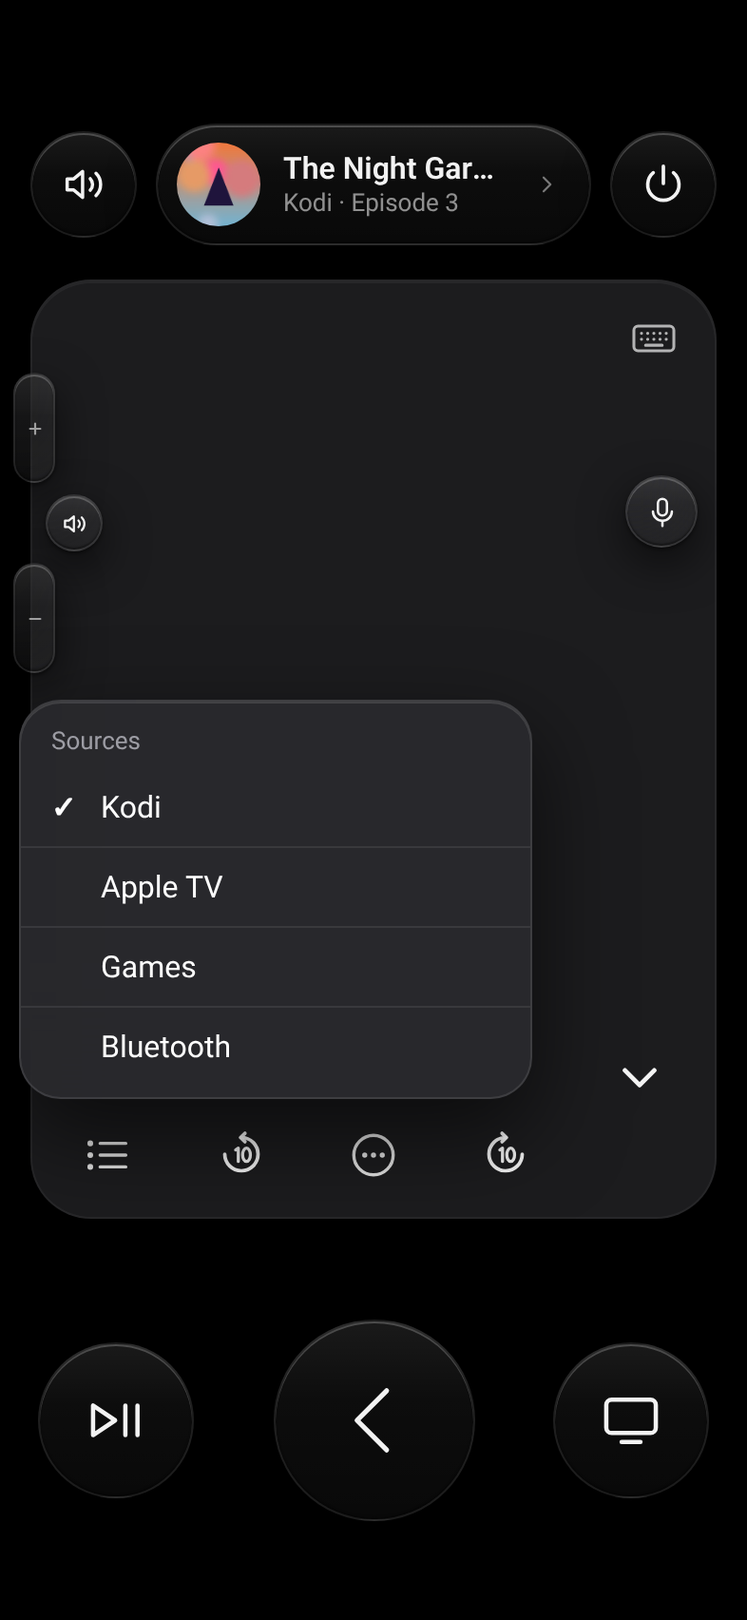
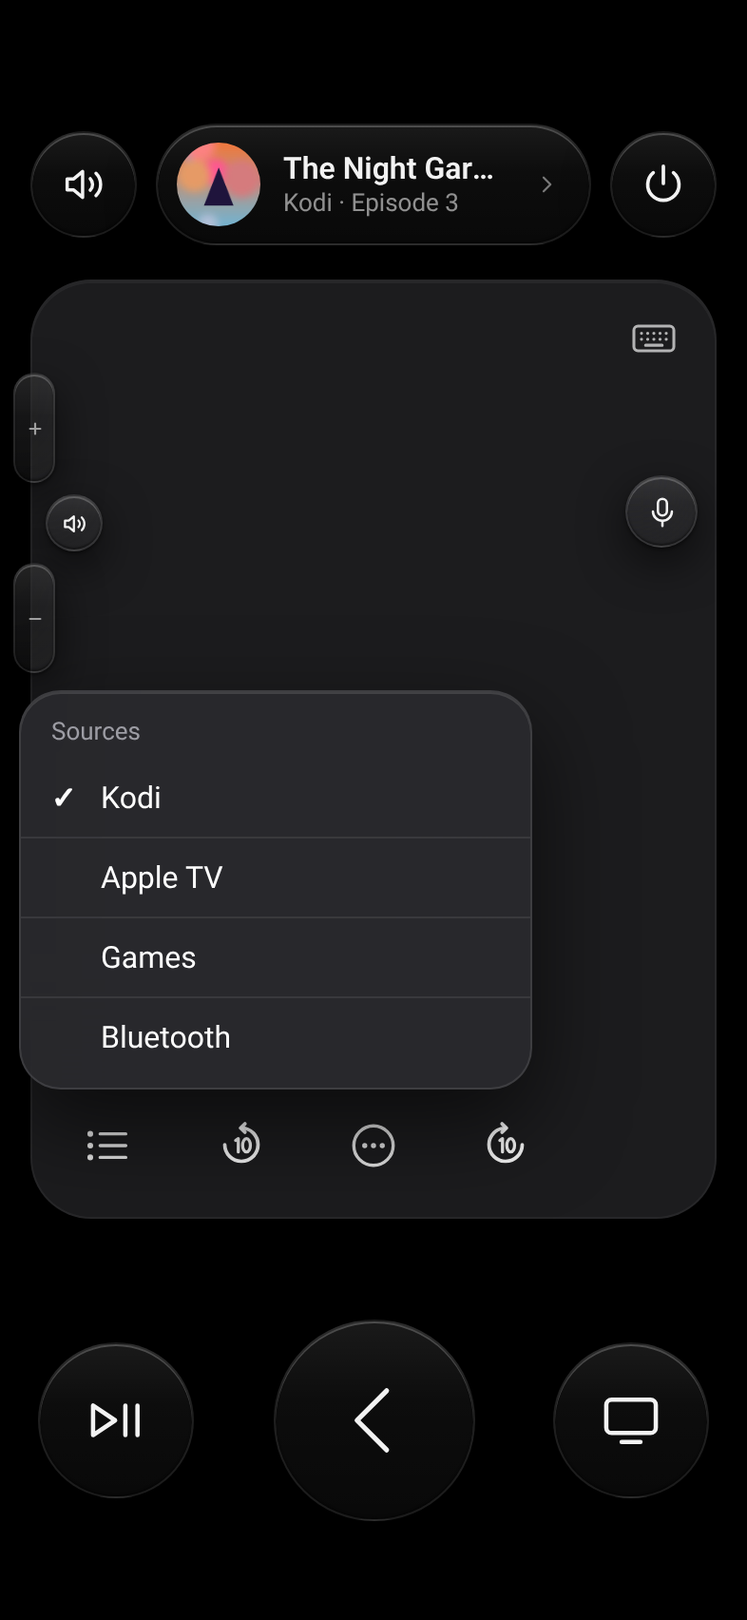
Grok Bot: 0.1.4 - bottom row always shown again; Apple-style CH control (collapsed CH with caps -> animated up/CH/down stack, folds back after channel_timeout); tests (11 Oct 2026)

Changed region(s): [[0.0611, 0.591, 0.7023, 0.7465], [0.0611, 0.4043, 0.6718, 0.5599], [0.8244, 0.6532, 0.8855, 0.6843]]

diff --git a/glass-remote-card.js b/glass-remote-card.js
@@ -6,15 +6,15 @@
  * https://github.com/evski/ha-glass-remote-card
  * MIT licence.
  *
- * 0.1.3 (Grok Bot, 11 Oct 2026): the pad's bottom row (sources | -10 | more | +10 | CH) now works like
- * Apple's iOS Remote: hidden by default and revealed inside the bottom of the touchpad by tapping the
- * CH control (a small chevron on players without channels); tap it again to hide. `bottom_row: always`
- * keeps the old always-visible row. Sharp CH chevrons and Apple proportions.
+ * 0.1.4 (Grok Bot, 11 Oct 2026): the pad's bottom row (sources | -10 | more | +10 | CH) is always shown,
+ * as on Apple's iOS Remote. Only the CH control changes: a compact "CH" with thin caps above and below
+ * sits in the row; tapping it animates the caps out into an up/down chevron stack (channel up/down).
+ * Tap CH again, or leave it ~5 s (`channel_timeout`), and it folds back. Replaces 0.1.3's hidden row.
  */
 (() => {
   "use strict";
 
-  const VERSION = "0.1.3";
+  const VERSION = "0.1.4";
   const TAG = "glass-remote-card";
   const PICK_KEY = "glass-remote-card:pick:";
 
@@ -61,6 +61,11 @@
     exit: svg('<path d="M14 4.5H6.5a2 2 0 0 0-2 2v11a2 2 0 0 0 2 2H14M10 12h10M16.5 8.5 20 12l-3.5 3.5"/>'),
     close: svg('<path d="M6 6l12 12M18 6 6 18"/>', 1.8),
   };
+
+  // CH control (0.1.4, Grok Bot 11 Oct 2026): each glyph holds Apple's collapsed thin cap and the open
+  // chevron; CSS cross-fades and moves them, so it works on iOS Safari (no CSS path morphing there).
+  const CH_UP = '<svg viewBox="4 4.5 16 9" fill="none" stroke="currentColor" stroke-linecap="round" stroke-linejoin="round" aria-hidden="true"><path class="cap" stroke-width="1.6" d="M6.2 10.6 10.8 8.4Q12 7.8 13.2 8.4L17.8 10.6"/><path class="chev" stroke-width="2" d="M6.5 12 12 6.5l5.5 5.5"/></svg>';
+  const CH_DOWN = '<svg viewBox="4 4.5 16 9" fill="none" stroke="currentColor" stroke-linecap="round" stroke-linejoin="round" aria-hidden="true"><path class="cap" stroke-width="1.6" d="M6.2 7.4 10.8 9.6Q12 10.2 13.2 9.6L17.8 7.4"/><path class="chev" stroke-width="2" d="M6.5 6.5 12 12l5.5-5.5"/></svg>';
 
   // Siri Remote glyph for the keyboard banner's app icon (filled, like the iOS notification).
   const REMOTE_GLYPH = '<svg viewBox="0 0 24 24" aria-hidden="true"><rect x="8.2" y="1.8" width="7.6" height="20.4" rx="2.6" fill="#fff"/>' +
@@ -227,9 +232,9 @@
       pad_height: "58dvh", card_height: "640px", ...config, players,
     };
     if (!["fullscreen", "card"].includes(out.layout)) throw new Error("glass-remote-card: layout must be fullscreen or card");
-    // bottom_row (0.1.3, Grok Bot 11 Oct 2026): toggle = hidden until CH is tapped (Apple), always = old behaviour
-    if (out.bottom_row === undefined) out.bottom_row = "toggle";
-    if (!["toggle", "always"].includes(out.bottom_row)) throw new Error("glass-remote-card: bottom_row must be toggle or always");
+    // channel_timeout (0.1.4, Grok Bot 11 Oct 2026): ms before an expanded CH stack folds back; 0 = never
+    if (out.channel_timeout === undefined) out.channel_timeout = 5000;
+    if (typeof out.channel_timeout !== "number" || out.channel_timeout < 0) throw new Error("glass-remote-card: channel_timeout must be milliseconds (0 = never)");
     return out;
   }
 
@@ -565,25 +570,35 @@
     .badge { width: 30px; height: 30px; margin-left: 17px; border-radius: 50%; display: grid; place-items: center; --s: 15px; -webkit-touch-callout: none; user-select: none; }
     .badge.inert { pointer-events: none; }
     .mic { position: absolute; right: 10px; top: calc(10% + 54px); width: 38px; height: 38px; border-radius: 50%; display: grid; place-items: center; --s: 19px; z-index: 2; }
-    /* bottom row inside the pad, like Apple's iOS Remote: sources | -10 | (...) | +10 | CH.
-       0.1.3 (Grok Bot, 11 Oct 2026): hidden until the CH control is tapped; the rest of the pad stays a
-       touchpad (the row only catches taps on its own buttons). Proportions from Apple's: five equal
-       columns, icons ~27px centred ~30px above the pad's bottom edge, CH stack ~32px pitch above that. */
-    .inner { position: absolute; left: 6px; right: 6px; bottom: 8px; display: grid; grid-template-columns: repeat(5, 1fr);
+    /* bottom row inside the pad, always shown, like Apple's iOS Remote: sources | -10 | (...) | +10 | CH.
+       The row only catches taps on its own buttons, so the rest of the pad stays a touchpad.
+       0.1.4 (Grok Bot, 11 Oct 2026): proportions from Apple's screenshots (five equal columns, icons ~27px
+       centred ~35px above the pad's bottom edge). CH: collapsed = "CH" in the row with thin caps hugging it;
+       open = the caps slide out and turn into chevrons, CH rises: up chevron, CH, down chevron (~33px pitch). */
+    .inner { position: absolute; left: 6px; right: 6px; bottom: 13px; display: grid; grid-template-columns: repeat(5, 1fr);
       justify-items: center; align-items: end; z-index: 2; pointer-events: none; }
     .inner > button { padding: 8px; --s: 28px; pointer-events: auto; }
     .inner .src, .inner .more { --s: 27px; opacity: .92; }
-    .inner > button, .ch .chb { transition: opacity .22s ease, transform .28s cubic-bezier(.2,.9,.3,1.1), visibility 0s; }
-    .inner:not(.open) > button, .inner:not(.open) .ch .chb { opacity: 0; transform: translateY(8px); visibility: hidden; pointer-events: none;
-      transition: opacity .15s ease, transform .2s ease, visibility 0s linear .2s; }
-    .inner .gone, .inner.open .gone { visibility: hidden; pointer-events: none; }
-    .ch { display: flex; flex-direction: column; align-items: center; line-height: 1; margin-bottom: 17px; pointer-events: none; }
-    .ch .chb { width: 44px; height: 36px; padding: 0; display: grid; place-items: center; pointer-events: auto; }
-    .ch .chb svg { width: 19px; height: 11px; display: block; }
-    .ch .chl { min-width: 44px; height: 28px; padding: 0 4px; display: grid; place-items: center; pointer-events: auto;
-      font-size: 15px; font-weight: 600; letter-spacing: .3px; --s: 19px; }
+    .inner .gone { visibility: hidden; pointer-events: none; }
+    .ch { position: relative; width: 44px; height: 44px; pointer-events: none; --ch-ease: cubic-bezier(.3,.9,.3,1.06); }
+    .ch > button { position: absolute; left: 50%; top: 50%; padding: 0; display: grid; place-items: center;
+      transition: transform .22s var(--ch-ease); }
+    .ch .chl { width: 44px; height: 36px; margin: -18px 0 0 -22px; z-index: 1; pointer-events: auto;
+      font-size: 15px; font-weight: 600; letter-spacing: .3px; line-height: 1; }
     .ch .chl:active { opacity: .6; }
-    .ch .chl .icon { width: 19px; height: 11px; }
+    .ch .chb { width: 44px; height: 30px; margin: -15px 0 0 -22px; pointer-events: none; }
+    .ch .chb svg { width: 22px; height: 12px; display: block; overflow: visible; }
+    .ch .chb path { transition: opacity .2s ease, transform .22s var(--ch-ease); transform-origin: 12px 9px; }
+    .ch .chb .chev { opacity: 0; transform: scale(.85, .5); }
+    .ch .chb.up { transform: translateY(-14px); }
+    .ch .chb.dn { transform: translateY(14px); }
+    .ch.open .chl { transform: translateY(-40px); }
+    .ch.open .chb { pointer-events: auto; }
+    .ch.open .chb.up { transform: translateY(-73px); }
+    .ch.open .chb.dn { transform: translateY(-7px); }
+    .ch.open .chb .cap { opacity: 0; transform: scale(.85, 1.6); }
+    .ch.open .chb .chev { opacity: 1; transform: none; }
+    .ch.open .chb:active { opacity: .6; }
 
     /* glass pop-up menu (sources, sound mode, more) */
     .menu-bg { position: fixed; inset: 0; z-index: 30; display: none; }
@@ -830,12 +845,12 @@
               <button class="tab glass" data-key="volume_down" data-repeat aria-label="Volume down">${icon("minus")}</button>
             </div>
             <button class="mic glass" data-act="keyboard" aria-label="Dictate">${icon("mic")}</button>
-            <div class="inner${c.bottom_row === "always" ? " open" : ""}">
+            <div class="inner">
               <button class="src" data-act="sources" aria-label="Sources">${icon("list")}</button>
               <button data-key="skip_back" aria-label="Back 10 seconds"><span class="icon ib"></span></button>
               <button class="more" data-act="more" aria-label="More">${icon("more")}</button>
               <button data-key="skip_fwd" aria-label="Forward 10 seconds"><span class="icon if"></span></button>
-              <div class="ch"><button class="chb" data-key="channel_up" aria-label="Channel up">${ICONS.chev_up}</button><button class="chl" data-act="row" aria-expanded="false" aria-label="Show channel and playback controls">CH</button><button class="chb" data-key="channel_down" aria-label="Channel down">${ICONS.chev_down}</button></div>
+              <div class="ch"><button class="chb up" data-key="channel_up" aria-label="Channel up" tabindex="-1">${CH_UP}</button><button class="chl" data-act="ch" aria-expanded="false" aria-label="Channels">CH</button><button class="chb dn" data-key="channel_down" aria-label="Channel down" tabindex="-1">${CH_DOWN}</button></div>
             </div>
           </div>
           <div class="bottom">
@@ -868,6 +883,8 @@
       });
       ta.addEventListener("keydown", (e) => { if (e.key === "Enter" && !e.shiftKey) { e.preventDefault(); this._act("kb-send"); } });
       this._wirePad(r.querySelector(".pad"));
+      // CH chevrons: each use restarts the fold-back timer (0.1.4, Grok Bot 11 Oct 2026)
+      r.querySelectorAll(".ch .chb").forEach((b) => b.addEventListener("pointerdown", () => { if (this._chOpen) this._setChOpen(true); }));
       // speaker badge: press and hold = sound mode menu (the +/- tabs keep hold-to-repeat)
       const badge = r.querySelector(".badge");
       let bt = null;
@@ -1015,7 +1032,7 @@
       const r = this.shadowRoot;
       if (act === "picker") { this._haptic(); this._renderPicker(); r.querySelector(".picker").classList.add("show"); }
       else if (act === "close") this._closeSheets();
-      else if (act === "row") { if (this._config.bottom_row !== "always") { this._haptic(); this._rowOpen = !this._rowOpen; this._renderRow(); } }
+      else if (act === "ch") { this._haptic(); this._setChOpen(!this._chOpen); }
       else if (act === "sources" || act === "more") { this._haptic(); this._openMenu(act, r.querySelector(act === "sources" ? ".src" : ".more")); }
       else if (act === "keyboard") {
         this._haptic();
@@ -1056,25 +1073,16 @@
       this._switching = true;
       this._call(steps).finally(() => { this._switching = false; });
     }
-    /** Open/closed state of the pad's bottom row and its CH toggle (0.1.3, Grok Bot 11 Oct 2026).
-     *  Players with channels: the "CH" label is the toggle and the chevrons appear around it.
-     *  Players without: a small chevron (up = show, down = hide) sits in the same spot. */
-    _renderRow() {
-      const r = this.shadowRoot, p = this.activePlayer; if (!p) return;
-      const always = this._config.bottom_row === "always";
-      const open = always || !!this._rowOpen;
-      const ch = hasChannels(p);
-      const inner = r.querySelector(".inner"), chl = r.querySelector(".chl");
-      inner.classList.toggle("open", open);
-      r.querySelectorAll(".ch .chb").forEach((b) => b.classList.toggle("gone", !ch));
-      const label = ch ? "CH" : (always ? "" : (open ? "down" : "up"));
-      if (chl.dataset.label !== label) {
-        chl.dataset.label = label;
-        chl.innerHTML = label === "CH" ? "CH" : label ? `<span class="icon">${ICONS[label === "up" ? "chev_up" : "chev_down"]}</span>` : "";
-      }
-      chl.classList.toggle("gone", !label);
-      chl.setAttribute("aria-expanded", String(open));
-      chl.setAttribute("aria-label", always ? "Channel" : open ? "Hide playback controls" : "Show playback controls");
+    /** CH control (0.1.4, Grok Bot 11 Oct 2026): collapsed "CH" in the row <-> chevron stack.
+     *  Collapsed, a tap only expands (no command). Folds back after channel_timeout ms without use. */
+    _setChOpen(open) {
+      this._chOpen = !!open;
+      const ch = this.shadowRoot.querySelector(".ch"), chl = this.shadowRoot.querySelector(".chl");
+      ch.classList.toggle("open", this._chOpen);
+      chl.setAttribute("aria-expanded", String(this._chOpen));
+      ch.querySelectorAll(".chb").forEach((b) => (b.tabIndex = this._chOpen ? 0 : -1));
+      clearTimeout(this._db_ch); this._timers.delete(this._db_ch); this._db_ch = null;
+      if (this._chOpen && this._config.channel_timeout > 0) this._debounce("ch", () => this._setChOpen(false), this._config.channel_timeout);
     }
     _closeSheets() { this.shadowRoot.querySelectorAll(".sheet-bg").forEach((s) => s.classList.remove("show")); }
     _friendly(p) { const st = this._states[p.entity]; return p.name || (st && st.attributes && st.attributes.friendly_name) || p.entity; }
@@ -1146,7 +1154,9 @@
       // bottom row: sources | -10 | ... | +10 | CH (each slot keeps its place when hidden)
       r.querySelector(".src").classList.toggle("gone", !sourceMenu(p, this._states));
       r.querySelector(".more").classList.toggle("gone", !moreItems(p, this._states).length);
-      this._renderRow();
+      const chOk = hasChannels(p);
+      r.querySelector(".ch").classList.toggle("gone", !chOk);
+      if (!chOk && this._chOpen) this._setChOpen(false);
       r.querySelector(".badge").classList.toggle("inert", !soundModeMenu(p, this._states));
       if (this._menu && (this._menuKind === "sources" || this._menuKind === "sound_mode")) {
         // keep the tick on the live value while open

diff --git a/test/test.js b/test/test.js
@@ -327,7 +327,7 @@ function ptr(w, el, type, x = 100, y = 100) {
   const dcfg = CONFIG(); dcfg.players[1].sources = { entity: "media_player.avr", include: [{ UHD: "Kodi" }, { PVR: "Apple TV" }] };
   m = mount(w, dcfg, AVRS);
   check("O8 bottom row order: sources | -10 | ... | +10 | CH", eq([...m.$(".inner").children].map((e) => e.className.split(" ")[0] || e.dataset.key), ["src", "skip_back", "more", "skip_fwd", "ch"]));
-  check("O9 Kodi: CH chevrons hidden (toggle stays), sources + more shown", [...m.card.shadowRoot.querySelectorAll(".ch .chb")].every((x) => x.classList.contains("gone")) && !m.$(".chl").classList.contains("gone") && !m.$(".src").classList.contains("gone") && !m.$(".more").classList.contains("gone"));
+  check("O9 Kodi: CH slot hidden, sources + more shown", m.$(".ch").classList.contains("gone") && !m.$(".src").classList.contains("gone") && !m.$(".more").classList.contains("gone"));
   check("O10 no separate info/subtitle buttons, mic still on the right edge", !m.$('.inner [data-key="info"]') && !!m.$(".mic"));
   m.$(".src").click(); await sleep(10);
   const mis = [...m.card.shadowRoot.querySelectorAll(".menu .mi")];
@@ -356,52 +356,48 @@ function ptr(w, el, type, x = 100, y = 100) {
   check("O19 + tab still repeats while held", m.hass.calls.filter((c) => c[1] === "volume_up").length >= 2);
   m.card.remove();
 
-  // ---- BR: bottom row toggle like Apple's iOS Remote (0.1.3, Grok Bot 11 Oct 2026) ------------
+  // ---- CH: Apple's CH control, row always shown (0.1.4, Grok Bot 11 Oct 2026) -----------------
   {
+    const css = () => b.$("style").textContent;
     w.localStorage.clear();
-    let b = mount(w, dcfg, AVRS);
-    const inner = () => b.$(".inner"), chl = () => b.$(".chl");
-    check("BR1 Kodi (no channels): row collapsed by default", !inner().classList.contains("open") && chl().getAttribute("aria-expanded") === "false");
-    check("BR2 Kodi toggle is a chevron (not CH) in the CH slot", chl().textContent === "" && chl().querySelector("svg") && chl().dataset.label === "up" && chl().closest(".ch") === b.$(".inner .ch"));
-    check("BR3 the row only catches taps on its own buttons (pad stays a touchpad)", /\.inner \{[^}]*pointer-events: none/.test(b.$("style").textContent) && /\.inner:not\(\.open\) > button[^{]*\{[^}]*pointer-events: none/.test(b.$("style").textContent));
-    chl().click();
-    check("BR4 tap toggle -> row opens, chevron flips down, no service call", inner().classList.contains("open") && chl().dataset.label === "down" && chl().getAttribute("aria-expanded") === "true" && b.hass.calls.length === 0);
-    b.$(".more").click(); await sleep(10);
-    check("BR5 More still opens its menu from the open row", b.$(".menu-bg").classList.contains("show"));
-    b.$(".menu-bg").click();
-    b.$(".src").click(); await sleep(10);
-    check("BR6 Sources still opens its menu", b.$(".menu-bg").classList.contains("show") && b.$(".menu .mt").textContent === "Sources");
-    b.$(".menu-bg").click();
-    const sk = b.$('.inner [data-key="skip_fwd"]'); ptr(w, sk, "pointerdown"); ptr(w, sk, "pointerup"); await sleep(10);
-    check("BR7 +10 still sends the skip", /Player\.Seek/.test(JSON.stringify(b.hass.calls.slice(-1)[0])), b.hass.calls.slice(-1)[0]);
-    // the pad itself still takes taps and swipes while the row is open
+    let b = mount(w, dcfg, AVRS); // Kodi active, no channels
+    check("CH1 row always visible: no hide toggle, no 'open' gating on the row", !/\.inner:not\(\.open\)/.test(css()) && !b.$(".inner").classList.contains("open") && !b.$(".src").classList.contains("gone") && !b.$(".more").classList.contains("gone"));
+    check("CH2 Kodi (no channel keys): CH slot hidden, no chevron toggle", b.$(".ch").classList.contains("gone") && !b.$('.inner [data-act="row"]'));
+    check("CH3 the row only catches taps on its own buttons (pad stays a touchpad)", /\.inner \{[^}]*pointer-events: none/.test(css()));
     const pad = b.$(".pad"); const n0 = b.hass.calls.length;
     ptr(w, pad, "pointerdown", 100, 100); ptr(w, pad, "pointerup", 100, 100); await sleep(10);
-    check("BR8 tap on the pad while open -> select, row stays open", b.hass.calls.length === n0 + 1 && /Select/.test(JSON.stringify(b.hass.calls.slice(-1)[0])) && inner().classList.contains("open"), b.hass.calls.slice(-1)[0]);
-    ptr(w, pad, "pointerdown", 100, 100); ptr(w, pad, "pointermove", 100, 40); ptr(w, pad, "pointerup", 100, 40); await sleep(10);
-    check("BR9 swipe on the pad while open -> up", /Up/.test(JSON.stringify(b.hass.calls.slice(-1)[0])), b.hass.calls.slice(-1)[0]);
-    chl().click();
-    check("BR10 tap toggle again -> row hides", !inner().classList.contains("open") && chl().dataset.label === "up");
+    check("CH4 tap on the pad -> select", b.hass.calls.length === n0 + 1 && /Select/.test(JSON.stringify(b.hass.calls.slice(-1)[0])));
     b.card.remove();
-    // Apple TV (channels): CH label is the toggle, chevrons send channel keys when open
+    // Apple TV: collapsed CH with caps; tap -> expand (no command); chevrons send channel keys; tap CH -> collapse
     w.localStorage.clear();
-    b = mount(w, CONFIG(), states()); b.card._writePick("media_player.lr_appletv"); b.card.hass = { ...b.hass, states: states() };
-    check("BR11 Apple TV: 'CH' label visible, row collapsed", chl().textContent === "CH" && !inner().classList.contains("open") && b.card.activeEntity === "media_player.lr_appletv");
-    check("BR12 chevrons present but hidden until open", [...b.card.shadowRoot.querySelectorAll(".ch .chb")].every((x) => !x.classList.contains("gone")) && /\.inner:not\(\.open\) \.ch \.chb/.test(b.$("style").textContent));
-    chl().click();
+    b = mount(w, { ...CONFIG(), channel_timeout: 300 }, states()); b.card._writePick("media_player.lr_appletv"); b.card.hass = { ...b.hass, states: states() };
+    const ch = () => b.$(".ch"), chl = () => b.$(".chl");
+    check("CH5 Apple TV: CH shown collapsed, in the row's 5th slot", !ch().classList.contains("gone") && !ch().classList.contains("open") && chl().textContent === "CH" && [...b.$(".inner").children].indexOf(ch()) === 4 && chl().getAttribute("aria-expanded") === "false");
+    check("CH6 each chevron button holds a thin cap and a chevron", b.card.shadowRoot.querySelectorAll(".ch .chb .cap").length === 2 && b.card.shadowRoot.querySelectorAll(".ch .chb .chev").length === 2);
+    check("CH7 collapsed: chevron buttons don't take taps; open: they do, and they animate (transitions)", /\.ch \.chb \{[^}]*pointer-events: none/.test(css()) && /\.ch\.open \.chb \{[^}]*pointer-events: auto/.test(css()) && /\.ch > button \{[^}]*transition: transform \.22s/.test(css()) && /\.ch \.chb path \{[^}]*transition: opacity/.test(css()));
+    check("CH8 open stack rises above the row: up above CH above down", /\.ch\.open \.chb\.up \{ transform: translateY\(-73px\)/.test(css()) && /\.ch\.open \.chl \{ transform: translateY\(-40px\)/.test(css()) && /\.ch\.open \.chb\.dn \{ transform: translateY\(-7px\)/.test(css()));
+    const n1 = b.hass.calls.length; chl().click(); await sleep(10);
+    check("CH9 tap collapsed CH -> expands, sends nothing", ch().classList.contains("open") && chl().getAttribute("aria-expanded") === "true" && b.hass.calls.length === n1);
     const up = b.$('.ch [data-key="channel_up"]'); ptr(w, up, "pointerdown"); ptr(w, up, "pointerup"); await sleep(10);
-    check("BR13 open, CH up -> channel_up on the Apple TV remote", inner().classList.contains("open") && /channel_up/.test(JSON.stringify(b.hass.calls)), b.hass.calls);
-    const nC = b.hass.calls.length; chl().click(); await sleep(10);
-    check("BR14 tapping 'CH' again hides the row, sends nothing", !inner().classList.contains("open") && b.hass.calls.length === nC && chl().textContent === "CH");
+    const dn = b.$('.ch [data-key="channel_down"]'); ptr(w, dn, "pointerdown"); ptr(w, dn, "pointerup"); await sleep(10);
+    const sent = JSON.stringify(b.hass.calls.slice(n1));
+    check("CH10 open: up/down send channel_up / channel_down to the Apple TV remote", /channel_up/.test(sent) && /channel_down/.test(sent) && /remote\.lr_appletv/.test(sent), b.hass.calls.slice(n1));
+    const n2 = b.hass.calls.length; chl().click(); await sleep(10);
+    check("CH11 tap CH again -> collapses, sends nothing", !ch().classList.contains("open") && b.hass.calls.length === n2);
+    chl().click(); await sleep(200);
+    ptr(w, up, "pointerdown"); ptr(w, up, "pointerup"); await sleep(200);
+    check("CH12 using a chevron restarts the fold-back timer", ch().classList.contains("open"));
+    await sleep(250);
+    check("CH13 folds back after channel_timeout without use", !ch().classList.contains("open") && !b.card._db_ch);
+    b.card._writePick("media_player.kodi"); chl().click(); b.card.hass = { ...b.hass, states: states() };
+    check("CH14 switching to a player without channels hides and folds the CH control", ch().classList.contains("gone") && !ch().classList.contains("open"));
     b.card.remove();
-    // bottom_row: always keeps the 0.1.2 behaviour
     w.localStorage.clear();
-    b = mount(w, { ...CONFIG(), bottom_row: "always" }, states());
-    check("BR15 bottom_row: always -> row open, no toggle on Kodi", inner().classList.contains("open") && chl().classList.contains("gone"));
-    chl().click();
-    check("BR16 ... and it can't be collapsed", inner().classList.contains("open"));
+    b = mount(w, { ...CONFIG(), channel_timeout: 0 }, states()); b.card._writePick("media_player.lr_appletv"); b.card.hass = { ...b.hass, states: states() };
+    b.$(".chl").click(); await sleep(50);
+    check("CH15 channel_timeout: 0 -> stays open, no timer", b.$(".ch").classList.contains("open") && !b.card._db_ch);
     b.card.remove();
-    check("BR17 bottom_row validation", bad({ ...CONFIG(), bottom_row: "sometimes" }) && H.normaliseConfig(CONFIG()).bottom_row === "toggle");
+    check("CH16 channel_timeout validation + default 5000", bad({ ...CONFIG(), channel_timeout: "5s" }) && bad({ ...CONFIG(), channel_timeout: -1 }) && H.normaliseConfig(CONFIG()).channel_timeout === 5000);
     w.localStorage.clear();
   }
 

diff --git a/scripts/screenshots.py b/scripts/screenshots.py
@@ -11,9 +11,9 @@ SHOTS = [  # name, query, viewport, safe-area (top, bottom), click
     ("remote-apple-tv-wants-text", "?src=Apple%20TV&kodi=idle&kbd=on&atv=playing", (393, 852), (59, 34), None),
     ("picker", "", (393, 852), (59, 34), ".pill"),
     ("keyboard", "?src=Apple%20TV&kodi=idle&atv=playing", (393, 852), (59, 34), ".mic"),
-    ("sources-menu", "", (393, 852), (59, 34), "row:.src"),
-    ("bottom-row", "?src=Apple%20TV&kodi=idle&atv=playing", (393, 852), (59, 34), "row:"),
-    ("more-menu", "", (393, 852), (59, 34), "row:.more"),
+    ("sources-menu", "", (393, 852), (59, 34), ".src"),
+    ("channels", "?src=Apple%20TV&kodi=idle&atv=playing", (393, 852), (59, 34), "row:"),
+    ("more-menu", "", (393, 852), (59, 34), ".more"),
     ("sound-mode-menu", "", (393, 852), (59, 34), "hold:.badge"),
     ("remote-small-phone", "", (375, 667), (20, 0), None),
     ("card-layout", "?layout=card", (468, 690), (0, 0), None),
@@ -34,7 +34,7 @@ async def main():
             if click and click.startswith("hold:"):
                 await pg.locator("glass-remote-card").locator(click[5:]).first.hover()
                 await pg.mouse.down(); await pg.wait_for_timeout(700); await pg.mouse.up(); await pg.wait_for_timeout(400)
-            elif click and click.startswith("row:"):  # 0.1.3: open the pad's bottom row first (tap CH)
+            elif click and click.startswith("row:"):  # 0.1.4: open the CH stack (tap CH) first
                 await pg.locator("glass-remote-card").locator(".chl").first.click(); await pg.wait_for_timeout(400)
                 if click[4:]:
                     await pg.locator("glass-remote-card").locator(click[4:]).first.click(); await pg.wait_for_timeout(400)

diff --git a/README.md b/README.md
@@ -28,7 +28,7 @@ Single JavaScript file. No dependencies: no card-mod, browser_mod, kiosk-mode or
 - **Now-playing pill.** Shows artwork, title and `Device · episode/app/state`. Tap it to open the device picker, which is built in (no browser_mod).
 - **Touchpad.** Swipe for arrows; keep holding after a swipe to keep moving. Tap to select, long-press for the context menu.
 - **Buttons:**
-  - A bottom row inside the pad, like Apple's iOS Remote: **sources list | -10 | ⋯ more | +10 | CH**. It is hidden until you tap **CH** in the pad's bottom-right corner (a small chevron on devices without channel keys); tap it again to hide it. Set `bottom_row: always` to keep it showing.
+  - A bottom row inside the pad, like Apple's iOS Remote: **sources list | -10 | ⋯ more | +10 | CH**. Tap **CH** to open Apple's channel stack (up chevron, CH, down chevron). Tap CH again to close it, or it closes by itself after 5 s. CH only shows on devices with channel keys.
   - **Sources** opens a glass picker with the player's sources, or those of your receiver or TV. The current source is ticked.
   - **More (⋯)** holds info, subtitles, sound mode and each platform's extras.
   - Play/pause, a big Back button and Home underneath. Long-press Back for the top menu and Home for the platform's extra action.
@@ -125,7 +125,7 @@ source_map:                               # optional: follow the TV's input
 | `players` | **required** | List of players (below). A plain entity id string also works. |
 | `layout` | `fullscreen` | `fullscreen`: a fixed, full-viewport remote that respects safe areas. `card`: a normal card. |
 | `pad_height` | `58dvh` | Touchpad height in full screen (Apple's proportion). It shrinks on small screens. |
-| `bottom_row` | `toggle` | `toggle`: the pad's bottom row (sources, -10, ⋯, +10, CH) stays hidden until you tap CH, like Apple's iOS Remote. `always`: always shown. |
+| `channel_timeout` | `5000` | How long (ms) the open CH stack (up / CH / down) stays open without use before it folds back. `0` = never. |
 | `card_height` | `640px` | Height of the whole card in `card` layout. |
 | `pick_timeout` | `180` | Minutes a manual pick is kept before Auto takes over again. |
 | `source_map` | – | `entity` (the TV), `sources` (input → player), `ignore_sources` (inputs that fall through to ranking), `default_to_tv` (`true`: any other source selects the TV). |

diff --git a/CHANGELOG.md b/CHANGELOG.md
@@ -4,7 +4,19 @@ All notable changes to this project are documented here. The format follows
 [Keep a Changelog](https://keepachangelog.com/en/1.1.0/) and the project uses
 [Semantic Versioning](https://semver.org/).
 
-## [0.1.3] - unreleased
+## [0.1.4] - unreleased
+
+### Changed
+- The pad's bottom row (sources | -10 | ⋯ | +10 | CH) is always shown again, as on Apple's iOS Remote. 0.1.3's hide/show toggle and its `bottom_row` option are gone.
+- The CH control now works like Apple's. Collapsed, it is a compact "CH" in line with the row, with thin caps above and below. Tapping it expands it into a stack that rises above the row: up chevron, CH, down chevron. The caps slide outward and turn into the chevrons in about 200 ms (CSS transitions, so it works on iOS).
+- Collapsed, a tap only expands the stack and sends no command. Expanded, the chevrons send channel up/down. Tap CH again to fold it back; it also folds back after 5 s without use.
+- Players without channel keys (e.g. Kodi) hide the CH slot again.
+- Row positions match Apple's screenshots.
+
+### Added
+- `channel_timeout`: how long, in ms, before an open CH stack folds back (default `5000`; `0` = never).
+
+## [0.1.3] - unreleased (superseded by 0.1.4)
 
 ### Changed
 - The pad's bottom row (sources | -10 | ⋯ | +10 | CH) now works like Apple's iOS Remote: it is hidden by default, so the touchpad is clear. Tap **CH** in the bottom-right corner of the pad to show it, and tap CH again to hide it. Players without channel keys (e.g. Kodi) get a small chevron in the same spot instead.
